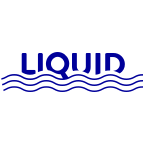
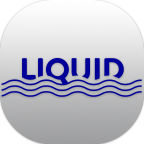
v1.2.2

diff --git a/CHANGELOG.md b/CHANGELOG.md
@@ -15,6 +15,14 @@
 
 - Removes the experimental detectors for Liquid on SCSS, CSS and Markdown. I still can't figure it out how make them work.
 
+### Version 1.2.2
+
+**Chores:**
+
+- Updates extension icon.
+
+**Fixes:**
+
 ## Version 1.1
 
 **New:**
